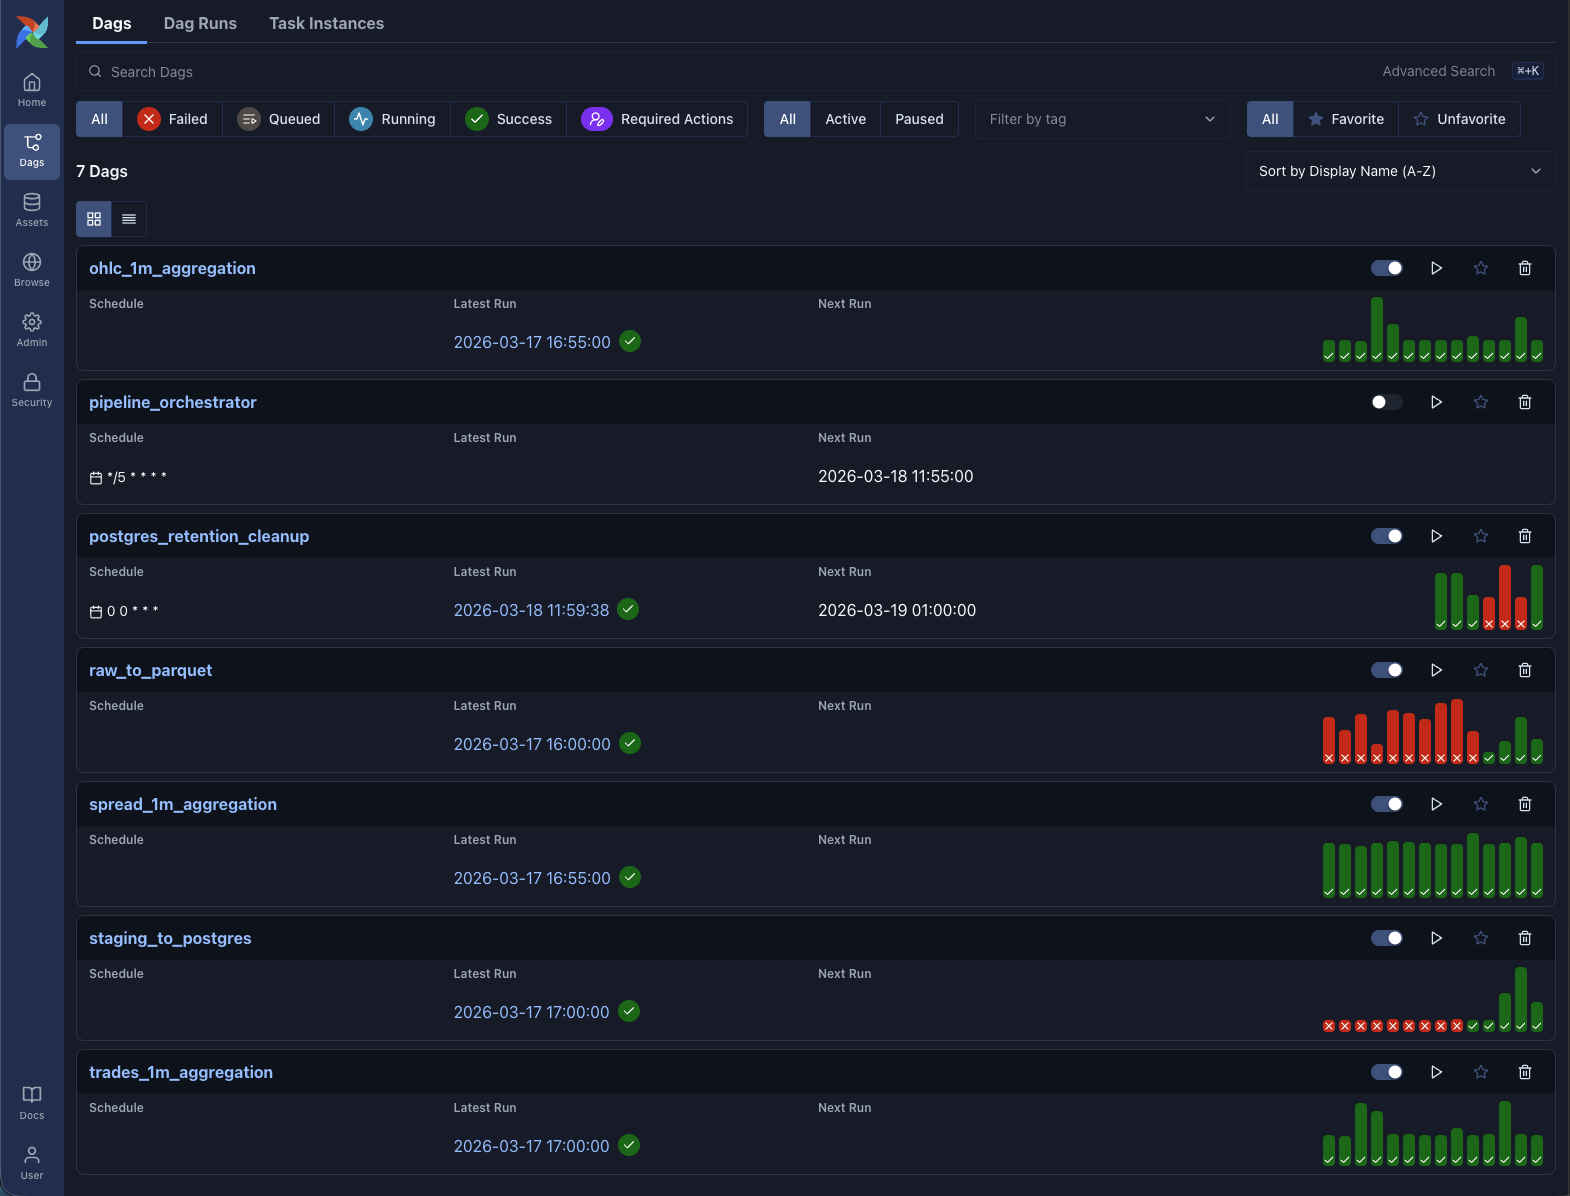
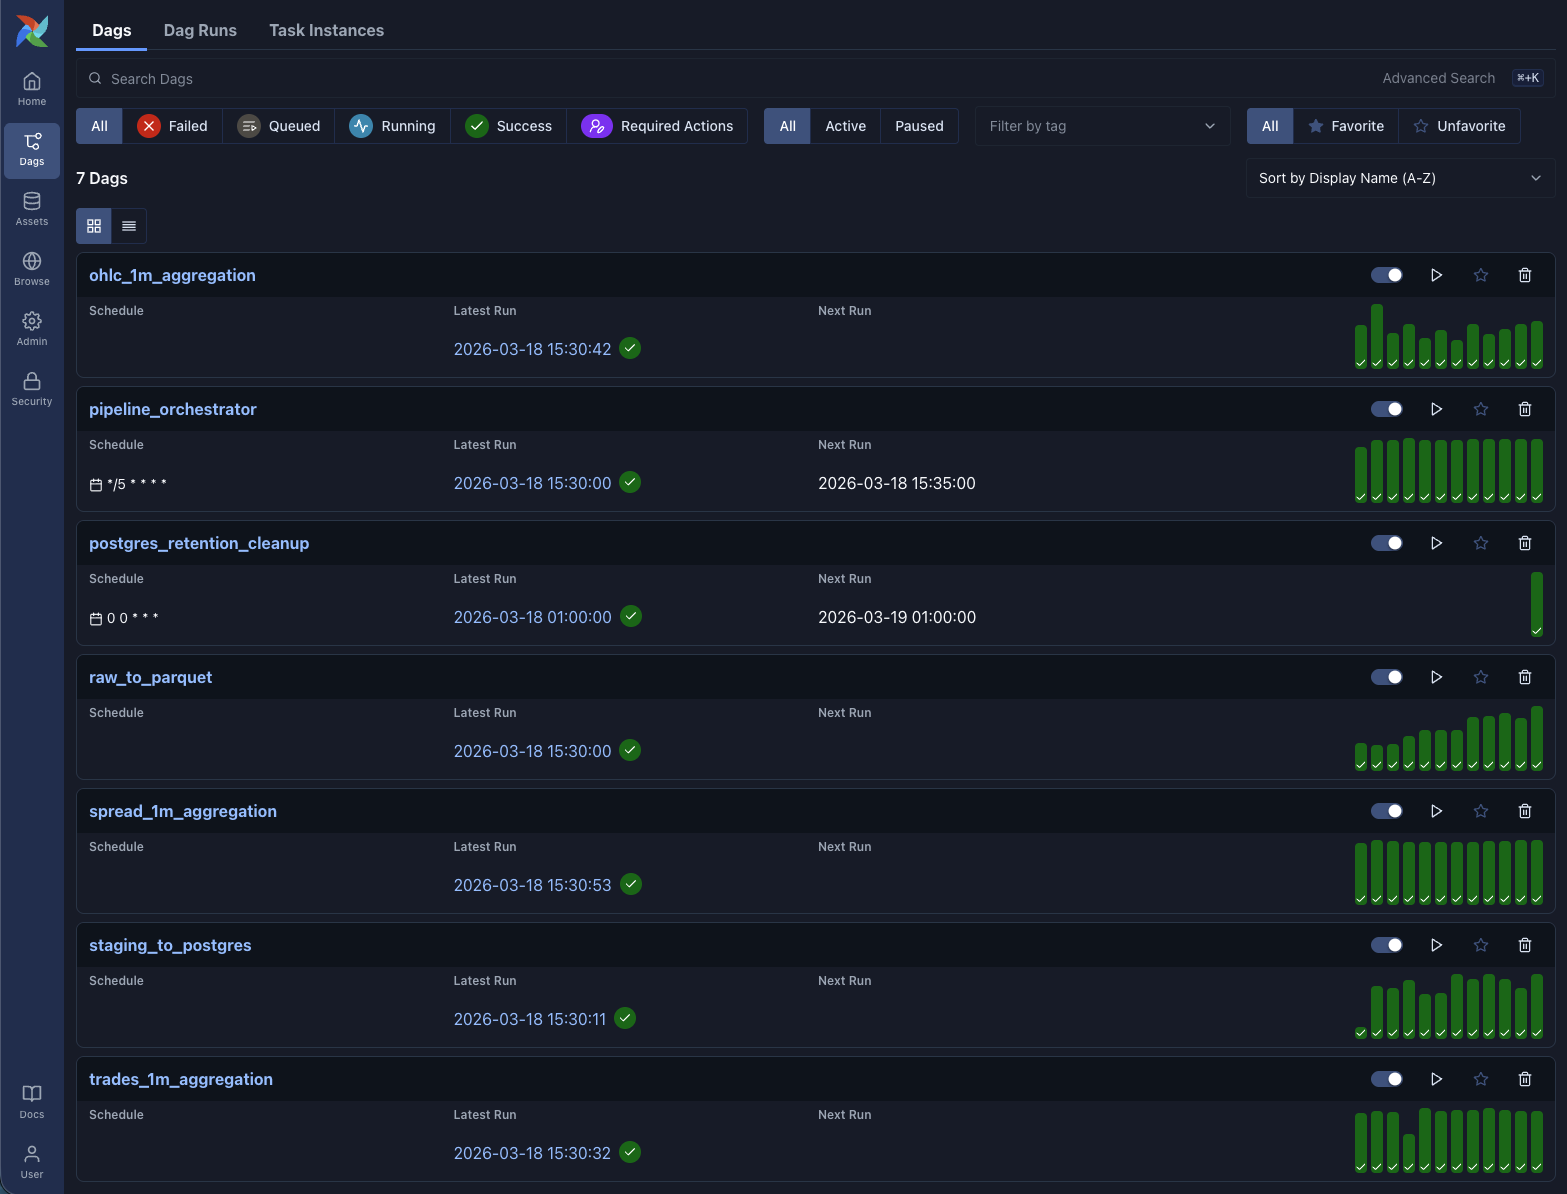
Set `is_paused_upon_creation=False` for all DAGs to enable them by default upon creation.

diff --git a/airflow/dags/pipeline_orchestrator_dag.py b/airflow/dags/pipeline_orchestrator_dag.py
@@ -9,6 +9,7 @@ with DAG(
     start_date=datetime(2024, 1, 1),
     schedule="*/5 * * * *",
     catchup=False,
+    is_paused_upon_creation=False,
 ) as dag:
     raw_to_parquet = TriggerDagRunOperator(
         task_id="trigger_raw_to_parquet",

diff --git a/airflow/dags/postgres_retention_dag.py b/airflow/dags/postgres_retention_dag.py
@@ -56,6 +56,7 @@ with DAG(
     start_date=datetime(2024, 1, 1),
     schedule="@daily",
     catchup=False,
+    is_paused_upon_creation=False,
 ) as dag:
     cleanup_task = PythonOperator(
         task_id="cleanup_postgres_tables",

diff --git a/airflow/dags/raw_to_parquet_dag.py b/airflow/dags/raw_to_parquet_dag.py
@@ -19,6 +19,7 @@ with DAG(
     start_date=datetime(2024, 1, 1),
     schedule=None,
     catchup=False,
+    is_paused_upon_creation=False,
 ) as dag:
     transform_task = PythonOperator(
         task_id="convert_raw_to_parquet",

diff --git a/airflow/dags/spread_1m_dag.py b/airflow/dags/spread_1m_dag.py
@@ -15,6 +15,7 @@ with DAG(
     start_date=datetime(2024, 1, 1),
     schedule=None,
     catchup=False,
+    is_paused_upon_creation=False,
 ) as dag:
     aggregate_task = PythonOperator(
         task_id="aggregate_spread_1m",

diff --git a/airflow/dags/trades_1m_agg_dag.py b/airflow/dags/trades_1m_agg_dag.py
@@ -15,6 +15,7 @@ with DAG(
     start_date=datetime(2024, 1, 1),
     schedule=None,
     catchup=False,
+    is_paused_upon_creation=False,
 ) as dag:
     aggregate_task = PythonOperator(
         task_id="aggregate_trades_1m",

diff --git a/airflow/dags/ohlc_1m_dag.py b/airflow/dags/ohlc_1m_dag.py
@@ -15,6 +15,7 @@ with DAG(
     start_date=datetime(2024, 1, 1),
     schedule=None,
     catchup=False,
+    is_paused_upon_creation=False,
 ) as dag:
     aggregate_task = PythonOperator(
         task_id="aggregate_ohlc_1m",

diff --git a/airflow/dags/staging_to_postgres_dag.py b/airflow/dags/staging_to_postgres_dag.py
@@ -28,6 +28,7 @@ with DAG(
     start_date=datetime(2024, 1, 1),
     schedule=None,
     catchup=False,
+    is_paused_upon_creation=False,
 ) as dag:
     load_task = PythonOperator(
         task_id="load_new_staging_files",
